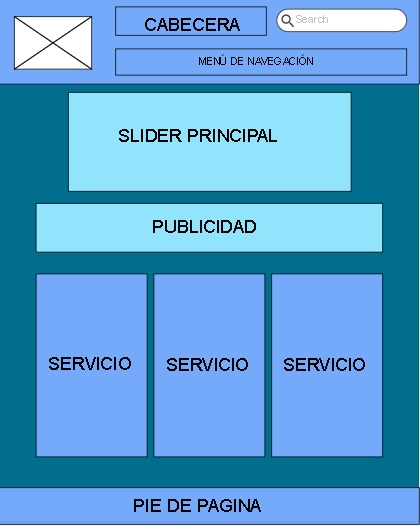
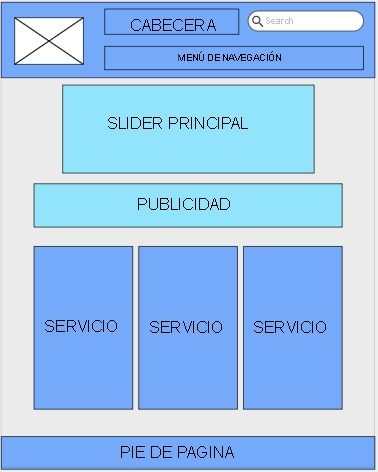
proyecto 1 codigo y maquetas

diff --git a/index.html b/index.html
@@ -1,0 +1,35 @@
+<!DOCTYPE html>
+<html lang="es">
+<head>
+    <meta charset="UTF-8">
+    <meta name="viewport" content="width=device-width, initial-scale=1.0">
+    <title>Proyecto 1</title>
+    <link rel="stylesheet" href="css/estilos.css">
+</head>
+<body>
+    <header class="cabeceraPrincipal">
+        <img src="img/logo.png" alt="Logotipo del evento">
+        <h1>V Conferencia de Desarrollo de Software UTPL 2021</h1>
+    </header>
+    <nav>
+        <a href="">Inicio</a>
+        <a href="">Ponentes</a>
+        <a href="">Campus</a>
+        <a href="">Tarifas</a>
+        <a href="">Registros</a>
+        <a href="">Inscripción</a>
+    </nav>
+    <section class="sliderPrincipal">Slider</section>
+    <aside>
+        imagen de publicidad
+    </aside>
+    <section class="servicios">
+        <article><h2>Servicio</h2></article>
+        <article><h2>Servicio</h2></article>
+        <article><h2>Servicio</h2></article>
+    </section>
+    <footer class="piePagina">
+        <h6>Derechos reservados UTPL 2020 by: @jdesparza</h6>
+    </footer>
+</body>
+</html>

diff --git a/css/estilos.css b/css/estilos.css
@@ -1,0 +1,24 @@
+*{
+    padding: 0;
+    margin: 0;
+}
+body{
+    background-color: rgb(24, 79, 141);
+    font-family: Verdana, Geneva, Tahoma, sans-serif;
+}
+header.cabeceraPrincipal{
+    background-color: rgb(67, 101, 253);
+}
+header.cabeceraPrincipal h1{
+    font-size: 1em;
+    padding: 1em;
+}
+section.sliderPrincipal{
+    background-color: rgb(55, 190, 161);
+}
+section.servicios{
+    background-color: rgb(67, 101, 253);
+}
+footer.piePagina{
+    background-color: rgb(67, 101, 253);
+}
